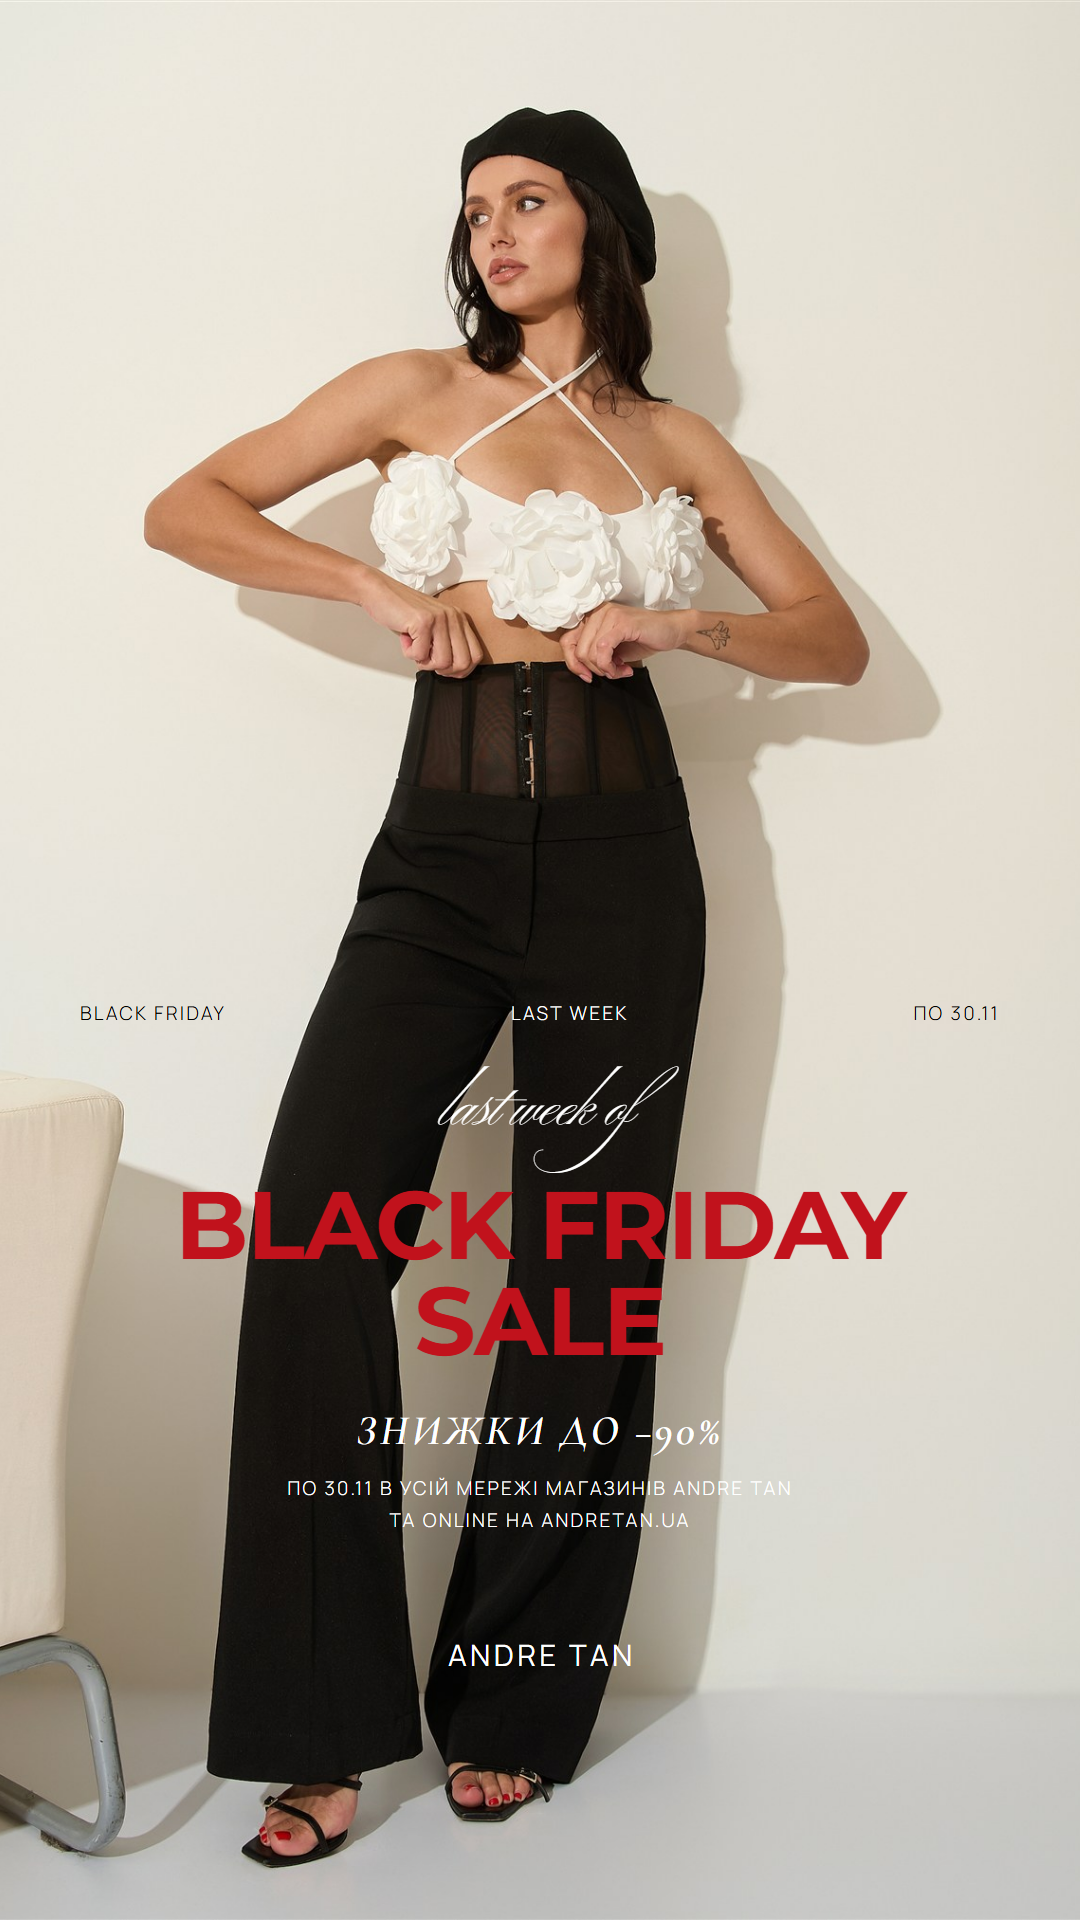
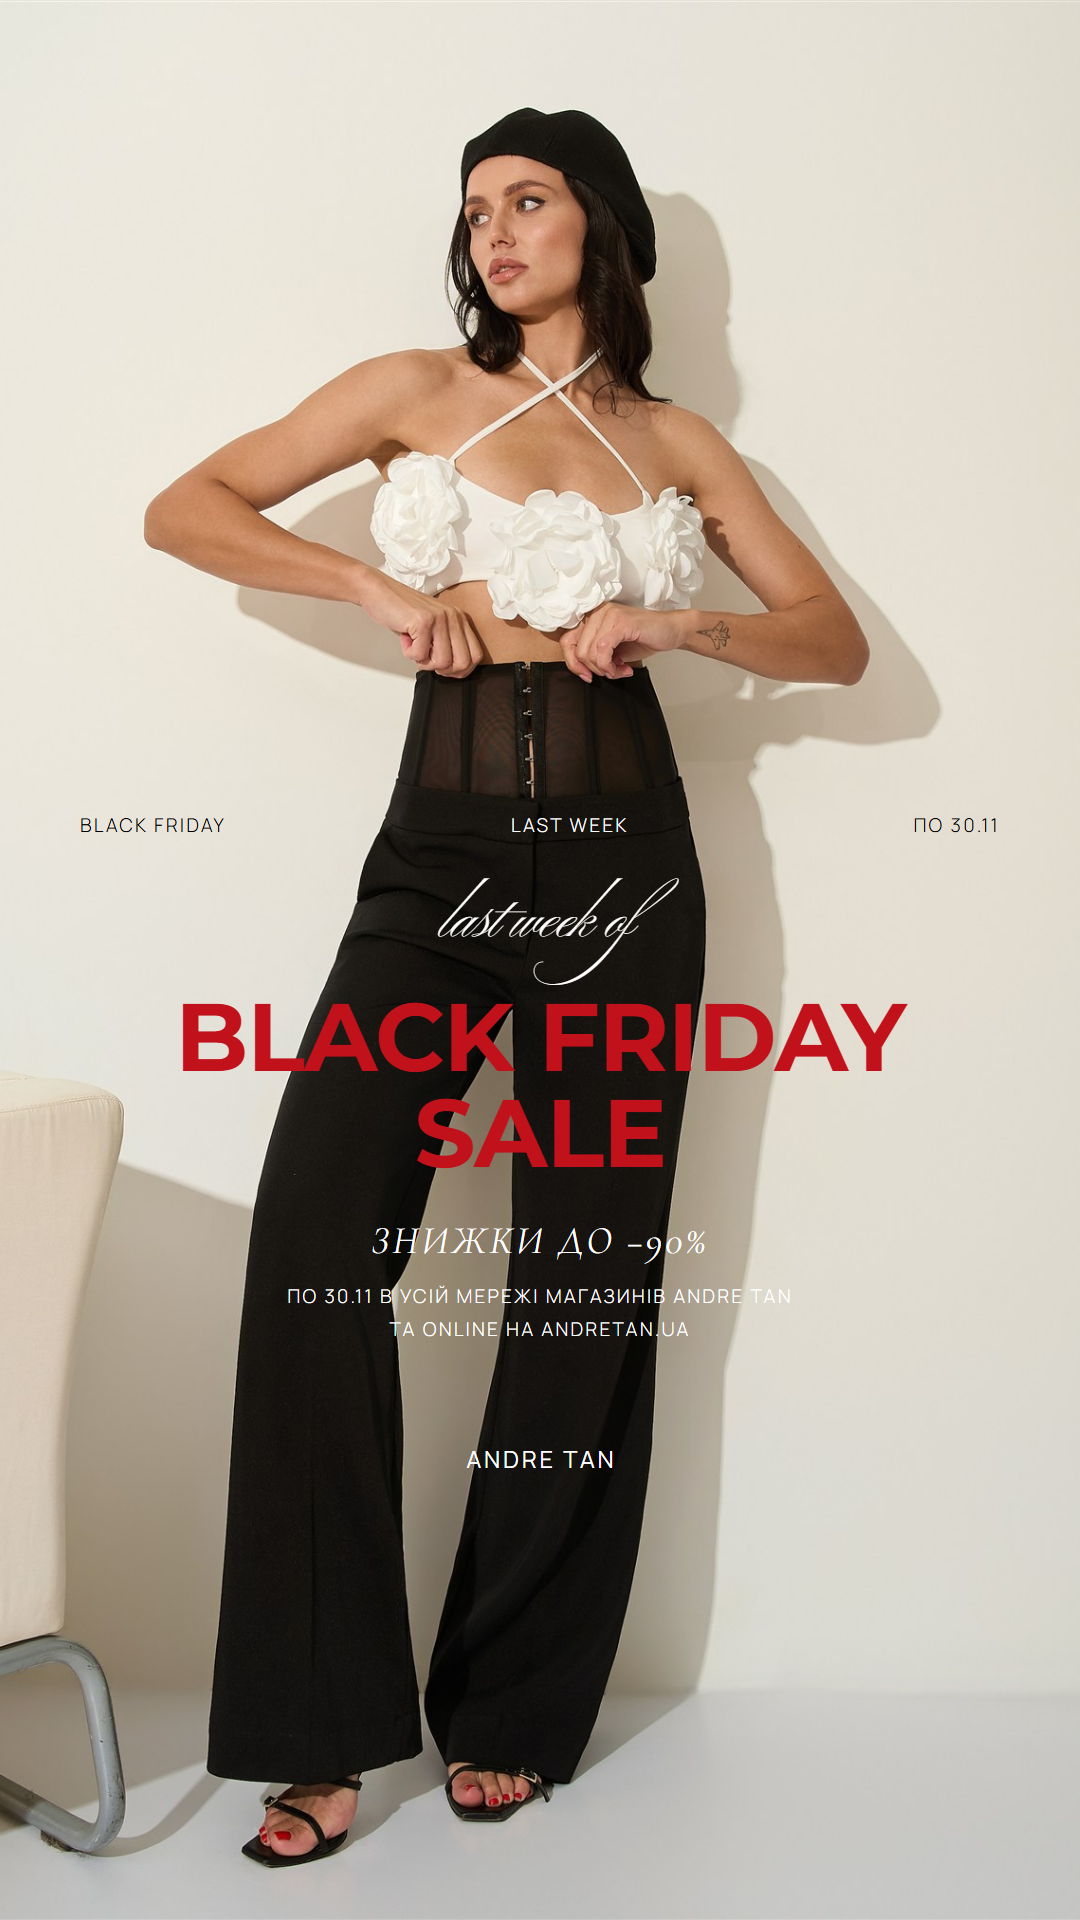
Design system: Story / Looks Cover template (Cover serif role), example story 5 looks from ANDRE TAN

diff --git a/design-system/tokens.css b/design-system/tokens.css
@@ -70,7 +70,7 @@
 }
 
 /* ── Text styles (розміри для полотна 1080px) ── */
-.t-display-xl   { font: 400 180px/0.90 var(--at-font-heading); letter-spacing: -0.02em; }
+.t-display-xl   { font: 400 180px/0.90 var(--at-font-heading); letter-spacing: -0.02em; font-variant-numeric: lining-nums; }
 .t-display-l    { font: 400 128px/0.92 var(--at-font-heading); letter-spacing: -0.015em; }
 .t-h1           { font: 400 88px/1.00 var(--at-font-heading); letter-spacing: -0.01em; }
 .t-h2           { font: 400 60px/1.05 var(--at-font-heading); letter-spacing: -0.005em; }
@@ -107,6 +107,7 @@
   --at-post-caption: "Manrope", "Helvetica Neue", Arial, sans-serif;  /* Caps M / S — підписи, дати */
   --at-post-price: "Manrope", "Helvetica Neue", Arial, sans-serif;    /* ціни */
   --at-post-script: "Ballet", "Cormorant Garamond", cursive; /* Cormorant — лише для кирилиці, якої в Ballet немає */
+  --at-post-cover: "Cormorant Garamond", "Times New Roman", serif; /* Cover — контрастний серіф обкладинок сторіс */
 
   /* Товщини, регістр і розміри (полотно 1080px) — їх змінює редактор через theme.css */
   --at-post-display-weight: 700;
@@ -129,6 +130,8 @@
   --at-post-size-caps-s: 16px;
   --at-post-size-price: 30px;
   --at-post-size-logo: 44px;
+  --at-post-size-cover: 230px;     /* «5 looks» / «from» */
+  --at-post-size-cover-l: 156px;   /* велике «ANDRE TAN» на обкладинці */
   /* Трекінг (відстань між літерами) у частках em — змінює редактор */
   --at-post-track-caps-l: 0.08em;   /* Caps L */
   --at-post-track-caption: 0.12em;  /* Caps M / S, мітки, кнопки, назви в цінах */
@@ -138,7 +141,7 @@
 
 :is(.canvas, .post-type) .t-display-xl { font: var(--at-post-display-weight) var(--at-post-size-display-xl)/1.0 var(--at-post-display); letter-spacing: -0.02em; text-transform: var(--at-post-display-case); }
 :is(.canvas, .post-type) .t-display-l  { font: var(--at-post-display-weight) var(--at-post-size-display-l)/1.0 var(--at-post-display); letter-spacing: -0.015em; text-transform: var(--at-post-display-case); }
-:is(.canvas, .post-type) .t-h1         { font: var(--at-post-heading-weight) var(--at-post-size-h1)/1.05 var(--at-post-heading); letter-spacing: -0.02em; }
+:is(.canvas, .post-type) .t-h1         { font: var(--at-post-heading-weight) var(--at-post-size-h1)/1.05 var(--at-post-heading); letter-spacing: -0.02em; font-variant-numeric: lining-nums; }
 :is(.canvas, .post-type) .t-h2         { font: var(--at-post-heading-weight) var(--at-post-size-h2)/1.10 var(--at-post-heading); letter-spacing: -0.01em; }
 :is(.canvas, .post-type) .t-h3         { font: var(--at-post-heading-weight) var(--at-post-size-h3)/1.15 var(--at-post-heading); letter-spacing: -0.005em; }
 :is(.canvas, .post-type) .t-h2-italic  { font: 400 var(--at-post-size-script)/1.05 var(--at-post-script); letter-spacing: 0; }
@@ -161,6 +164,11 @@
 :is(.canvas, .post-type) .disc-circle { font-family: var(--at-post-display); font-size: calc(var(--at-post-size-display-l) * 0.54); }
 :is(.canvas, .post-type) .btn         { font-family: var(--at-post-caption); font-weight: var(--at-post-caption-weight); font-size: var(--at-post-size-caps-m); letter-spacing: var(--at-post-track-caption); }
 :is(.canvas, .post-type) .hl-cover__title { font-family: var(--at-font-logo); font-size: calc(var(--at-post-size-logo) * 2.9); }
+/* Cover — серифні заголовки обкладинок сторіс: .t-cover (рядки), .t-cover-italic (курсивне слово), .t-cover-l (широкий напис великими) */
+:is(.canvas, .post-type) .t-cover   { font: 400 var(--at-post-size-cover)/0.86 var(--at-post-cover); letter-spacing: -0.02em; font-variant-numeric: lining-nums; }
+:is(.canvas, .post-type) .t-cover-l { font: 400 var(--at-post-size-cover-l)/1 var(--at-post-cover); letter-spacing: 0; text-transform: uppercase; white-space: nowrap; }
+:is(.canvas, .post-type) :is(.t-cover, .t-cover-l) { font-style: var(--at-post-cover-style, normal); }
+:is(.canvas, .post-type) .t-cover.t-cover-italic { font-style: italic; }
 /* Накреслення (прямий / курсив) — з редактора: шрифт «Cormorant Garamond Italic» вмикає курсив у своєму блоці */
 :is(.canvas, .post-type) :is(.t-display-xl, .t-display-l, .disc-circle) { font-style: var(--at-post-display-style, normal); }
 :is(.canvas, .post-type) :is(.t-h1, .t-h2, .t-h3) { font-style: var(--at-post-heading-style, normal); }

diff --git a/design-system/theme.css b/design-system/theme.css
@@ -1,18 +1,18 @@
 /* ANDRE TAN — тема з редактора. Порожня = все як у tokens.css.
    Файл генерує редактор (editor/), вручну не редагуйте.
-   editor-state: {"vars":{"--at-margin-feed":"45px","--at-post-size-caps-l":"42px","--at-post-size-caps-m":"22px","--at-post-size-caps-s":"19px","--at-post-size-logo":"50px","--at-post-size-script":"66px","--at-red-600":"#C1121C"},"fonts":{"capsl":{"family":"Cormorant Garamond Italic","weight":600},"caption":{"family":"Manrope","weight":300},"logo":{"family":"Manrope","weight":400},"price":{"family":"Cormorant Garamond","weight":400}},"texts":{"bf-last-days-drop":{"title":"#000000"},"bf-last-days-story-bw":{"meta-1":"#000000","meta-3":"#000000","title":"#C1121C"},"bf-last-days-story-color":{"meta-1":"#000000","meta-3":"#000000","title":"#C1121C"},"cold-season-styling":{"site":"#FFFFFF","title":"#FFFFFF"}}} */
-@import url("https://fonts.googleapis.com/css2?family=Cormorant+Garamond:ital,wght@0,400;0,600;1,400;1,600&family=Manrope:wght@300;400&display=swap");
+   editor-state: {"vars":{"--at-margin-feed":"45px","--at-post-size-caps-l":"39px","--at-post-size-caps-m":"22px","--at-post-size-caps-s":"19px","--at-post-size-logo":"40px","--at-post-size-script":"66px","--at-red-600":"#C1121C"},"fonts":{"capsl":{"family":"Cormorant Garamond Italic","weight":400},"caption":{"family":"Manrope","weight":300},"logo":{"family":"Manrope","weight":400},"price":{"family":"Cormorant Garamond","weight":400}},"texts":{"bf-last-days-drop":{"title":"#000000"},"bf-last-days-story":{"title":"#C1121C"},"bf-last-days-story-bw":{"meta-1":"#000000","meta-3":"#000000","title":"#C1121C"},"bf-last-days-story-color":{"meta-1":"#000000","meta-3":"#000000","title":"#C1121C"},"cold-season-styling":{"site":"#FFFFFF","title":"#FFFFFF"}}} */
+@import url("https://fonts.googleapis.com/css2?family=Cormorant+Garamond:ital,wght@0,400;1,400&family=Manrope:wght@300;400&display=swap");
 :root {
   --at-margin-feed: 45px;
-  --at-post-size-caps-l: 42px;
+  --at-post-size-caps-l: 39px;
   --at-post-size-caps-m: 22px;
   --at-post-size-caps-s: 19px;
-  --at-post-size-logo: 50px;
+  --at-post-size-logo: 40px;
   --at-post-size-script: 66px;
   --at-red-600: #C1121C;
   --at-post-caps-l: "Cormorant Garamond", "Times New Roman", serif;
   --at-post-caps-l-style: italic;
-  --at-post-caps-l-weight: 600;
+  --at-post-caps-l-weight: 400;
   --at-post-caption: "Manrope", "Helvetica Neue", Arial, sans-serif;
   --at-post-caption-style: normal;
   --at-post-caption-weight: 300;
@@ -23,11 +23,12 @@
   --at-font-logo-style: normal;
 }
 .canvas[data-post="bf-last-days-drop"] [data-t="title"] { color: #000000; }
-.canvas[data-post="bf-last-days-story-color"] [data-t="meta-1"] { color: #000000; }
-.canvas[data-post="bf-last-days-story-color"] [data-t="meta-3"] { color: #000000; }
-.canvas[data-post="bf-last-days-story-color"] [data-t="title"] { color: #C1121C; }
+.canvas[data-post="bf-last-days-story"] [data-t="title"] { color: #C1121C; }
 .canvas[data-post="bf-last-days-story-bw"] [data-t="meta-1"] { color: #000000; }
 .canvas[data-post="bf-last-days-story-bw"] [data-t="meta-3"] { color: #000000; }
 .canvas[data-post="bf-last-days-story-bw"] [data-t="title"] { color: #C1121C; }
+.canvas[data-post="bf-last-days-story-color"] [data-t="meta-1"] { color: #000000; }
+.canvas[data-post="bf-last-days-story-color"] [data-t="meta-3"] { color: #000000; }
+.canvas[data-post="bf-last-days-story-color"] [data-t="title"] { color: #C1121C; }
 .canvas[data-post="cold-season-styling"] [data-t="site"] { color: #FFFFFF; }
 .canvas[data-post="cold-season-styling"] [data-t="title"] { color: #FFFFFF; }

diff --git a/design-system/posts/bf-last-days-story-color.html b/design-system/posts/bf-last-days-story-color.html
@@ -19,12 +19,12 @@
   <div class="photo fill has-image" style="background-image:url('assets/bf-rose-top.jpg');background-size:cover;background-position:67% center"></div>
   <div class="layer pad-story center c-inverse">
     <div class="stack gap-16 mt-auto" style="align-items:center;width:100%">
-      <div class="meta-row meta-row--light" style="width:100%" data-label="Рядок над заголовком" data-t="meta"><span style="translate: 0px -24px;" data-t="meta-1" data-label="Рядок над заголовком · ліва частина">Black Friday</span><span style="translate: 0px -24px;" data-t="meta-2" data-label="Рядок над заголовком · середина">Last week</span><span style="translate: 0px -24px;" data-t="meta-3" data-label="Рядок над заголовком · права частина">по&nbsp;30.11</span></div>
-      <div class="t-h2-italic" data-label="Рукописний акцент" data-t="script">last week of</div>
-      <div class="t-display-l" data-label="Заголовок" data-t="title">Black Friday<br>Sale</div>
-      <div class="t-caps-l" data-label="Знижка" data-t="caps" style="translate: 0px 21px;">Знижки до&nbsp;−90%</div>
-      <div class="t-caps-s" style="max-width: 820px; line-height: 1.7; translate: 0px 21px;" data-label="Текст" data-t="body">По&nbsp;30.11 в&nbsp;усій мережі магазинів ANDRE&nbsp;TAN<br>та&nbsp;online на&nbsp;andretan.ua</div>
-      <div class="logo logo--sm logo--white" style="margin-top: 16px; translate: 0px 91px;" data-label="Логотип" data-t="logo">ANDRE TAN</div>
+      <div class="meta-row meta-row--light" style="width:100%" data-label="Рядок над заголовком" data-t="meta"><span style="translate: 0px -222px;" data-label="Рядок над заголовком · ліва частина" data-t="meta-1">Black Friday</span><span style="translate: 0px -222px;" data-label="Рядок над заголовком · середина" data-t="meta-2">Last week</span><span style="translate: 0px -222px;" data-label="Рядок над заголовком · права частина" data-t="meta-3">по&nbsp;30.11</span></div>
+      <div class="t-h2-italic" data-label="Рукописний акцент" data-t="script" style="translate: 0px -198px;">last week of</div>
+      <div class="t-display-l" data-label="Заголовок" data-t="title" style="translate: 0px -198px;">Black Friday<br>Sale</div>
+      <div class="t-caps-l" data-label="Знижка" data-t="caps" style="translate: 0px -177px;">Знижки до&nbsp;−90%</div>
+      <div class="t-caps-s" style="max-width: 820px; line-height: 1.7; translate: 0px -177px;" data-label="Текст" data-t="body">По&nbsp;30.11 в&nbsp;усій мережі магазинів ANDRE&nbsp;TAN<br>та&nbsp;online на&nbsp;andretan.ua</div>
+      <div class="logo logo--sm logo--white" style="margin-top: 16px; translate: 0px -107px;" data-label="Логотип" data-t="logo">ANDRE TAN</div>
     </div>
   </div>
 </div>

diff --git a/design-system/posts/looks-cover-mirror.html b/design-system/posts/looks-cover-mirror.html
@@ -1,0 +1,33 @@
+<!doctype html>
+<html lang="uk">
+<head>
+<meta charset="utf-8">
+<title>5 looks from ANDRE TAN · Looks Cover — ANDRE TAN</title>
+<!-- Готова сторіс. Шаблон: Story / Looks Cover · 1080×1920 (референс: reference st1/photo_2026-11-25_14-26-23.jpg).
+     Рендер у PNG: powershell -ExecutionPolicy Bypass -File posts/render.ps1 looks-cover-mirror -->
+<link rel="preconnect" href="https://fonts.googleapis.com">
+<link rel="preconnect" href="https://fonts.gstatic.com" crossorigin>
+<link href="https://fonts.googleapis.com/css2?family=Cormorant+Garamond:ital,wght@0,400;1,400&family=Manrope:wght@300;400;500&family=Montserrat:wght@700&family=Ballet:opsz@16..72&family=Imperial+Script&family=Petit+Formal+Script&display=swap" rel="stylesheet">
+<link rel="stylesheet" href="../tokens.css">
+<link rel="stylesheet" href="../theme.css">
+<link rel="stylesheet" href="../components.css">
+<link rel="stylesheet" href="post.css">
+</head>
+<body>
+
+<div class="canvas c-story bg-white" data-name="Story / Looks Cover · Mirror" data-post="looks-cover-mirror">
+  <div class="photo fill has-image" style="background-image:url('assets/cold-season-styling.jpg');background-size:cover;background-position:0% center"></div>
+  <div class="layer pad-story">
+    <!-- «5 looks» праворуч, «from» курсивом під ним зі зсувом; велике «ANDRE TAN» білим поверх фото -->
+    <div class="stack end" style="margin-top:60px">
+      <div class="t-cover" data-t="title" data-label="Заголовок">5 looks</div>
+      <div class="t-cover t-cover-italic" style="margin-right:150px" data-t="italic" data-label="Курсивне слово">from</div>
+    </div>
+    <div class="t-cover-l c-inverse" style="align-self:center;margin-top:150px" data-t="brand" data-label="Великий напис">Andre Tan</div>
+    <div class="logo mt-auto" style="align-self:center;margin-bottom:-110px" data-t="site" data-label="Сайт">andretan.ua</div>
+  </div>
+</div>
+
+<script src="../typo.js"></script>
+</body>
+</html>

diff --git a/design-system/editor/editor.js b/design-system/editor/editor.js
@@ -22,6 +22,7 @@
     ['caps-l', 'Caps L', 12, 60, '.t-caps-l'], ['caps-m', 'Caps M', 10, 48, '.t-caps-m, .price__name, .btn'], ['caps-s', 'Caps S', 10, 40, '.t-caps-s, .meta-row span, .badge, .counter'],
     ['price', 'Ціна', 16, 72, '.t-price, .price__value, .price-chip, .price__old'],
     ['logo', 'Логотип і назви хайлайтів', 16, 120, '.logo, .hl-cover__title'],
+    ['cover', 'Cover — «5 looks»', 80, 360, '.t-cover'], ['cover-l', 'Cover — великий напис', 60, 260, '.t-cover-l'],
   ];
   // трекінг — у сотих частках em (8 = 0.08em); 0 = літери без додаткового відступу
   const TRACKS = [['--at-post-track-caps-l', 'Caps L — назви', 0, 40], ['--at-post-track-caption', 'Caps M / S, мітки, кнопки', 0, 40], ['--at-post-track-logo', 'Логотип і сайт', 0, 40]];
@@ -53,6 +54,7 @@
     { id: 'caption', v: '--at-post-caption', label: 'Caps M / S — підписи, назви товарів, мітки', weight: '--at-post-caption-weight', sample: 'ПІДПИС', sel: '.t-caps-m, .t-caps-s, .price__name, .meta-row span, .badge, .counter, .btn' },
     { id: 'price', v: '--at-post-price', label: 'Ціна', weight: '--at-post-price-weight', sample: '12 999 ₴', sel: '.t-price, .price__value, .price-chip, .price__old' },
     { id: 'script', v: '--at-post-script', label: 'Script — рукописний акцент', sample: 'new arrival', sel: '.t-script-l, .t-h2-italic, .italic' },
+    { id: 'cover', v: '--at-post-cover', label: 'Cover — серифні заголовки обкладинок сторіс', sample: '5 looks from', sel: '.t-cover, .t-cover-l' },
     { id: 'logo', v: '--at-font-logo', label: 'Логотип і назви хайлайтів', sample: 'ANDRE TAN', sel: '.logo, .hl-cover__title' },
   ];
 

diff --git a/design-system/posts/cold-season-styling.html b/design-system/posts/cold-season-styling.html
@@ -20,10 +20,10 @@
   <div class="photo fill has-image" style="background-image:url('assets/cold-season-styling.jpg');background-size:cover;background-position:0% center"></div>
   <div class="layer pad-story">
     <div class="stack gap-16 end" style="margin-top:20px;margin-left:auto;max-width:560px">
-      <div class="t-caps-l" data-label="Заголовок" style="font-size:calc(var(--at-post-size-caps-l) * 1.83);line-height:1.3" data-t="title">Cold season<br>styling</div>
+      <div class="t-caps-l" data-label="Заголовок" style="font-size: calc(var(--at-post-size-caps-l) * 1.83); line-height: 1.3; translate: 0px 193px;" data-t="title">Cold season<br>styling</div>
     </div>
     <!-- сайт опущено на 110px нижче шаблонного місця: на звичному місці він налазив на туфлю -->
-    <div class="logo mt-auto" data-label="Сайт" style="align-self: center; margin-bottom: -110px; translate: 0px 84px;" data-t="site">andretan.ua</div>
+    <div class="logo mt-auto" data-label="Сайт" style="align-self: center; margin-bottom: -110px; translate: 0px -5px;" data-t="site">andretan.ua</div>
   </div>
 </div>
 

diff --git a/design-system/index.html b/design-system/index.html
@@ -495,6 +495,19 @@
       </div><div class="safe-zones"><i></i><i></i></div>
     </div>
 
+    <div class="canvas c-story bg-white" data-name="Story / Looks Cover">
+      <!-- обкладинка підбірки: «5 looks» / «from» (Cover, чорний) праворуч, велике «ANDRE TAN» білим поверх фото на рівні плечей, сайт унизу -->
+      <div class="photo fill"></div>
+      <div class="layer pad-story">
+        <div class="stack end" style="margin-top:60px">
+          <div class="t-cover">5 looks</div>
+          <div class="t-cover t-cover-italic" style="margin-right:150px">from</div>
+        </div>
+        <div class="t-cover-l c-inverse" style="align-self:center;margin-top:150px">Andre Tan</div>
+        <div class="logo mt-auto" style="align-self:center">andretan.ua</div>
+      </div><div class="safe-zones"><i></i><i></i></div>
+    </div>
+
     <div class="canvas c-story bg-black" data-name="Story / Sale Lockup">
       <div class="photo fill"></div><div class="scrim" style="top:0;height:auto;background:rgba(0,0,0,.42)"></div>
       <div class="layer pad-story center c-inverse">

diff --git a/design-system/posts/posts.js b/design-system/posts/posts.js
@@ -1,6 +1,12 @@
 // Маніфест готових постів. Новий пост: додайте HTML у posts/, рядок сюди
 // і запустіть posts/render.ps1. Нові пости додаються зверху.
 window.POSTS = [
+  { id: 'looks-cover-mirror', w: 1080, h: 1920,
+    title: '5 looks from ANDRE TAN',
+    template: 'Story / Looks Cover',
+    campaign: '5 looks',
+    date: '2026-11-25',
+    caption: '5 looks from ANDRE TAN · andretan.ua' },
   { id: 'bf-last-days-story-color', w: 1080, h: 1920,
     title: 'Last Days of Black Friday Sale — Stories, колір',
     template: 'Story / Drop Announce Full',
